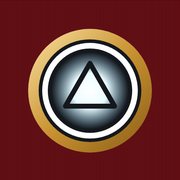
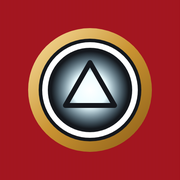
Ícone em vermelho mais claro

diff --git a/sw.js b/sw.js
@@ -1,4 +1,4 @@
-const C='jarbas-202610311343';
+const C='jarbas-202610311347';
 const A=['./','index.html','giro.html','manifest.webmanifest','icons/icon-192.png'];
 self.addEventListener('install',e=>{e.waitUntil(caches.open(C).then(c=>c.addAll(A)));self.skipWaiting()});
 self.addEventListener('activate',e=>{e.waitUntil(caches.keys().then(k=>Promise.all(k.filter(x=>x!==C).map(x=>caches.delete(x)))));self.clients.claim()});
